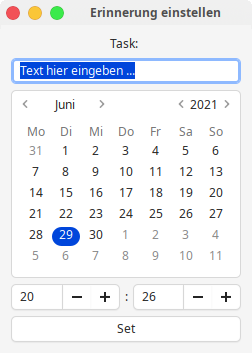
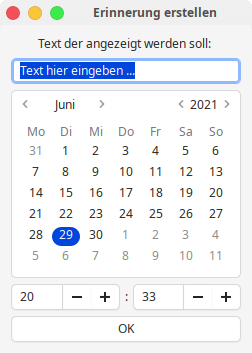
Add files via upload

diff --git a/setalarmwindow.py b/setalarmwindow.py
@@ -11,7 +11,7 @@ filepath = 'sinoamarelo.svg'
 
 class SetAlarmWindow(Gtk.Window):
     def __init__(self):
-        Gtk.Window.__init__(self, title="Erinnerung einstellen")
+        Gtk.Window.__init__(self, title="Erinnerung erstellen")
         #Sets the position beginig with CENTER for non-supporting systems
         self.set_position(Gtk.WindowPosition.CENTER)
         #self.set_gravity(Gdk.Gravity.NORTH_EAST)
@@ -32,7 +32,7 @@ class SetAlarmWindow(Gtk.Window):
 
         # create a label
         task_label = Gtk.Label()
-        task_label.set_text('Task: ')
+        task_label.set_text('Text der angezeigt werden soll: ')
         box.add(task_label)
 
         # create a field to input the task description
@@ -81,7 +81,7 @@ class SetAlarmWindow(Gtk.Window):
         box.add(time_hbox)
 
         # add OK button
-        button_set_alarm = Gtk.Button("Set")
+        button_set_alarm = Gtk.Button("OK")
         button_set_alarm.connect('clicked', self.button_set_alarm_cliked)
         box.add(button_set_alarm)
         self.add(box)
